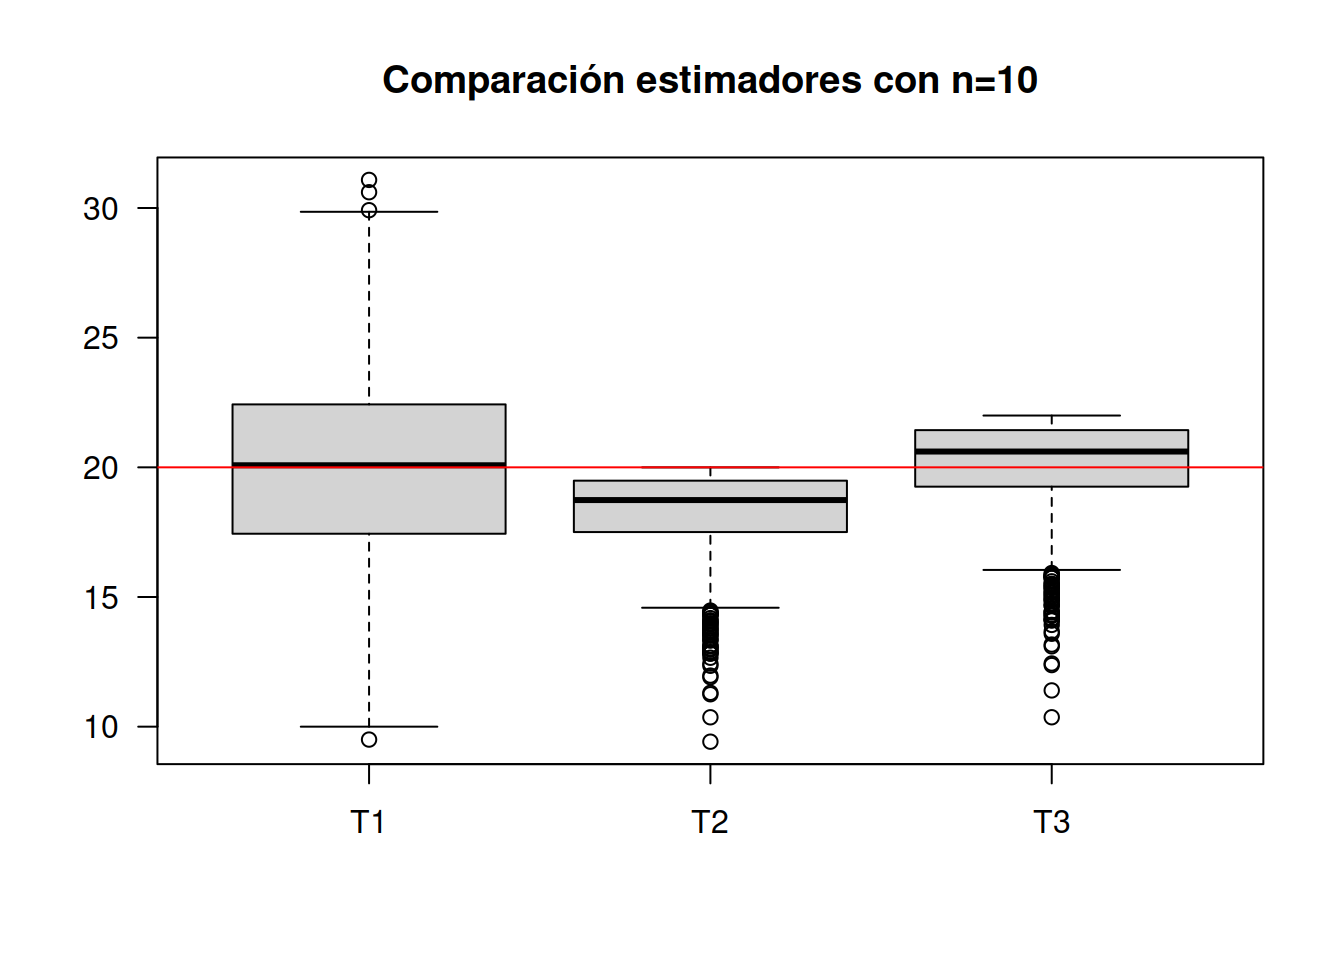
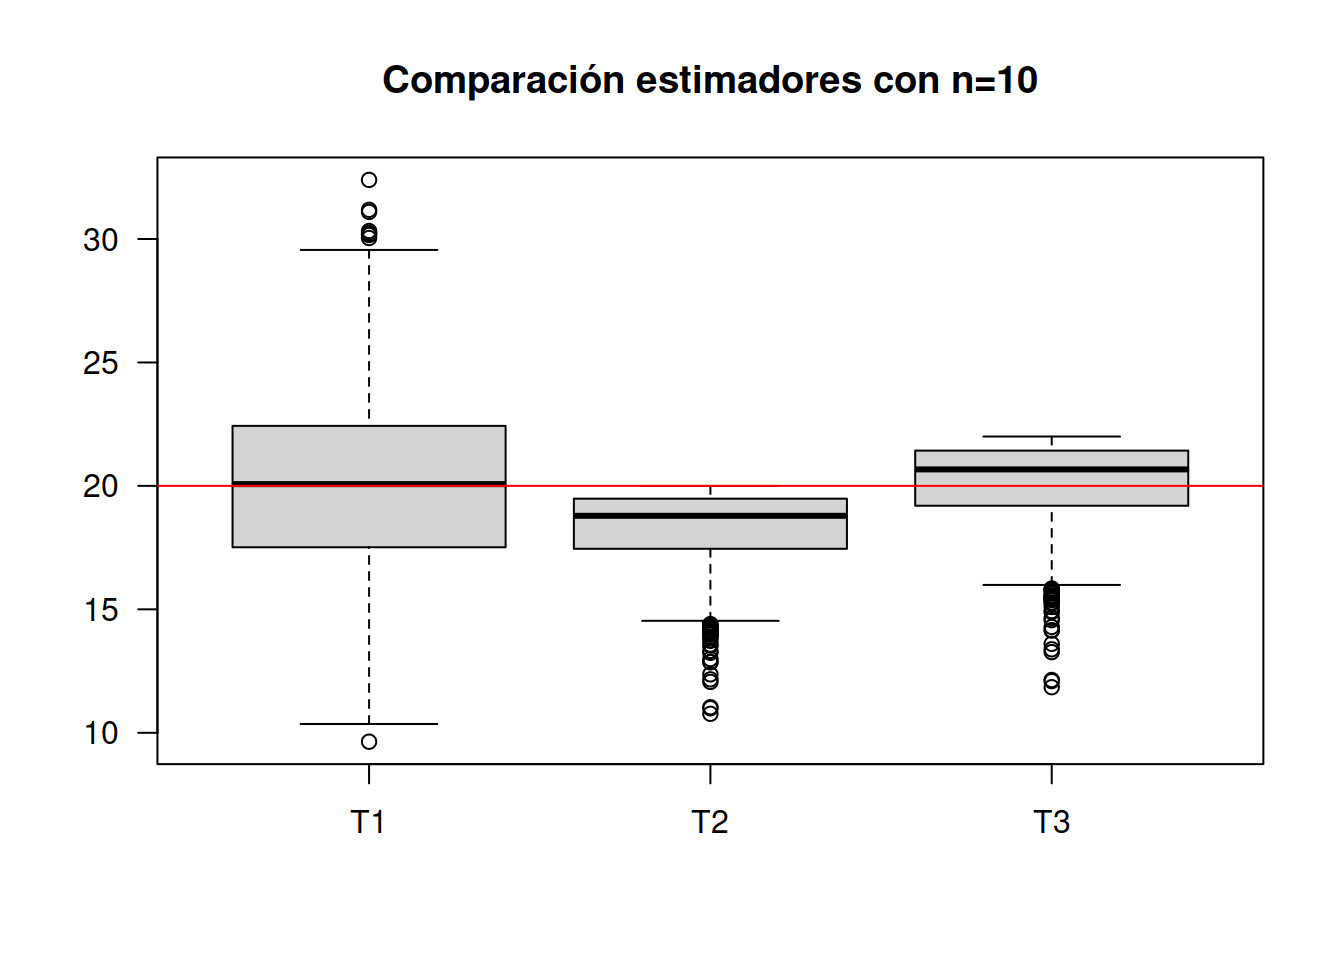
ajustes unidad4

diff --git a/docs/recurso231.html b/docs/recurso231.html
@@ -454,7 +454,7 @@ dbinom(1,n,p)# Función de masa</code></pre>
 <pre class="r"><code>qbinom(0.5,n,p) # Cuantiles</code></pre>
 <pre><code>[1] 5</code></pre>
 <pre class="r"><code>rbinom(10,n,p) #Números aleatorios</code></pre>
-<pre><code> [1] 5 4 4 2 5 5 6 5 6 6</code></pre>
+<pre><code> [1] 7 5 6 6 8 4 6 5 2 5</code></pre>
 <p><br/><br/></p>
 <pre class="r"><code>par(mfrow=c(2,2))
 plot(1:10,dbinom(1:10,n,p),pch=19,panel.first=grid(),main=&quot;Distribución binomial con p=0.5&quot;)
@@ -586,8 +586,8 @@ dnorm(1,mu,sigma)# Función de densidad</code></pre>
 <pre class="r"><code>qnorm(0.5,mu,sigma) # Cuantiles</code></pre>
 <pre><code>[1] 10</code></pre>
 <pre class="r"><code>rnorm(10,mu,sigma) #Números aleatorios</code></pre>
-<pre><code> [1]  9.371563 10.438409 10.080324 10.496110 10.141988 10.365886  9.772058
- [8]  9.675331 10.591249  9.206402</code></pre>
+<pre><code> [1]  9.230399 10.131075 10.037697 10.225356 10.450964  9.696280 10.527476
+ [8] 10.729032  9.984564  9.835147</code></pre>
 <p><br/><br/></p>
 <pre class="r"><code># Gráfico función de densidad con diferente media
 curve(dnorm(x,mu,sigma),xlim=c(0,20),ylab=&quot;Density&quot;)

diff --git a/docs/recurso331.html b/docs/recurso331.html
@@ -697,7 +697,7 @@ abline(h=20,  col=&quot;red&quot;)</code></pre>
 <p><img src="recurso331_files/figure-html/unnamed-chunk-4-1.png" width="672" /></p>
 <pre class="r"><code>apply(T123,2,mean)</code></pre>
 <pre><code>      T1       T2       T3 
-19.95282 18.24229 20.06652 </code></pre>
+20.05139 18.25516 20.08067 </code></pre>
 <p><br/><br/></p>
 <p>Para un tamaño de muestra <span class="math inline">\(n=10\)</span>
 se observa que los mejores resultados se obtienen con <span
@@ -719,7 +719,7 @@ abline(h=20,  col=&quot;red&quot;)</code></pre>
 <p><img src="recurso331_files/figure-html/unnamed-chunk-5-1.png" width="672" /></p>
 <pre class="r"><code>apply(T123,2,mean)</code></pre>
 <pre><code>      T1       T2       T3 
-19.98637 19.80717 20.00524 </code></pre>
+20.00562 19.81457 20.01271 </code></pre>
 <p>Los resutados indican que el mejor estimador de <span
 class="math inline">\(b\)</span> corresponde a <span
 class="math inline">\(T3\)</span>. Sin embargo el estimador <span
